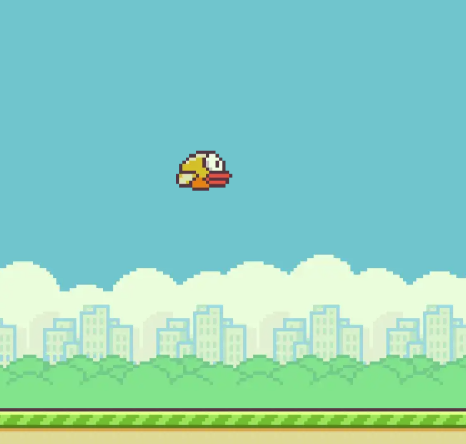
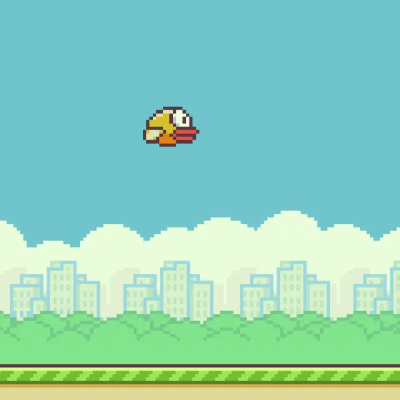
fix screen resolution to 200 square

Changed region(s): [[0.0, 0.51, 1.0, 0.84], [0.0, 0.9, 1.0, 0.99], [0.36, 0.24, 0.51, 0.45]]

diff --git a/FlappyBirdEnv.py b/FlappyBirdEnv.py
@@ -20,17 +20,12 @@ from PIL import ImageGrab
 import dxcam
 mouse = Controller()
 
-IMAGE_REDUCTION = 100
-
-width = 849
-height = 719
-top = 110
-left = 518
+IMAGE_REDUCTION = 200
 
 game_location = 0
 
 class FlappyGame(Env):
-    def __init__(self):
+    def __init__(self, width, height, top, left ):
         self.start_time = time.time()
         self.last_check_time = 0
         super().__init__()
@@ -74,6 +69,7 @@ class FlappyGame(Env):
     
     def render(self):     
         cv2.imshow('Game', self.get_observation())
+        cv2.moveWindow('Game', 3333, 500)
         cv2.waitKey(1)      
 
     

diff --git a/main.py b/main.py
@@ -10,14 +10,11 @@ import pyautogui
 mouse = Controller()
 from FlappyBirdEnv import FlappyGame
 
-IMAGE_REDUCTION = 100
 
-width = 849
-height = 719
-top = 110
-left = 518
-
-
+width = 0
+height = 0
+top = 0
+left = 0
 game_location = 0
 
 time.sleep(1)
@@ -43,7 +40,7 @@ else:
 
 
 #############################################################################
-env = FlappyGame()
+env = FlappyGame(width, height, top, left)
 
 env.reset()
 
